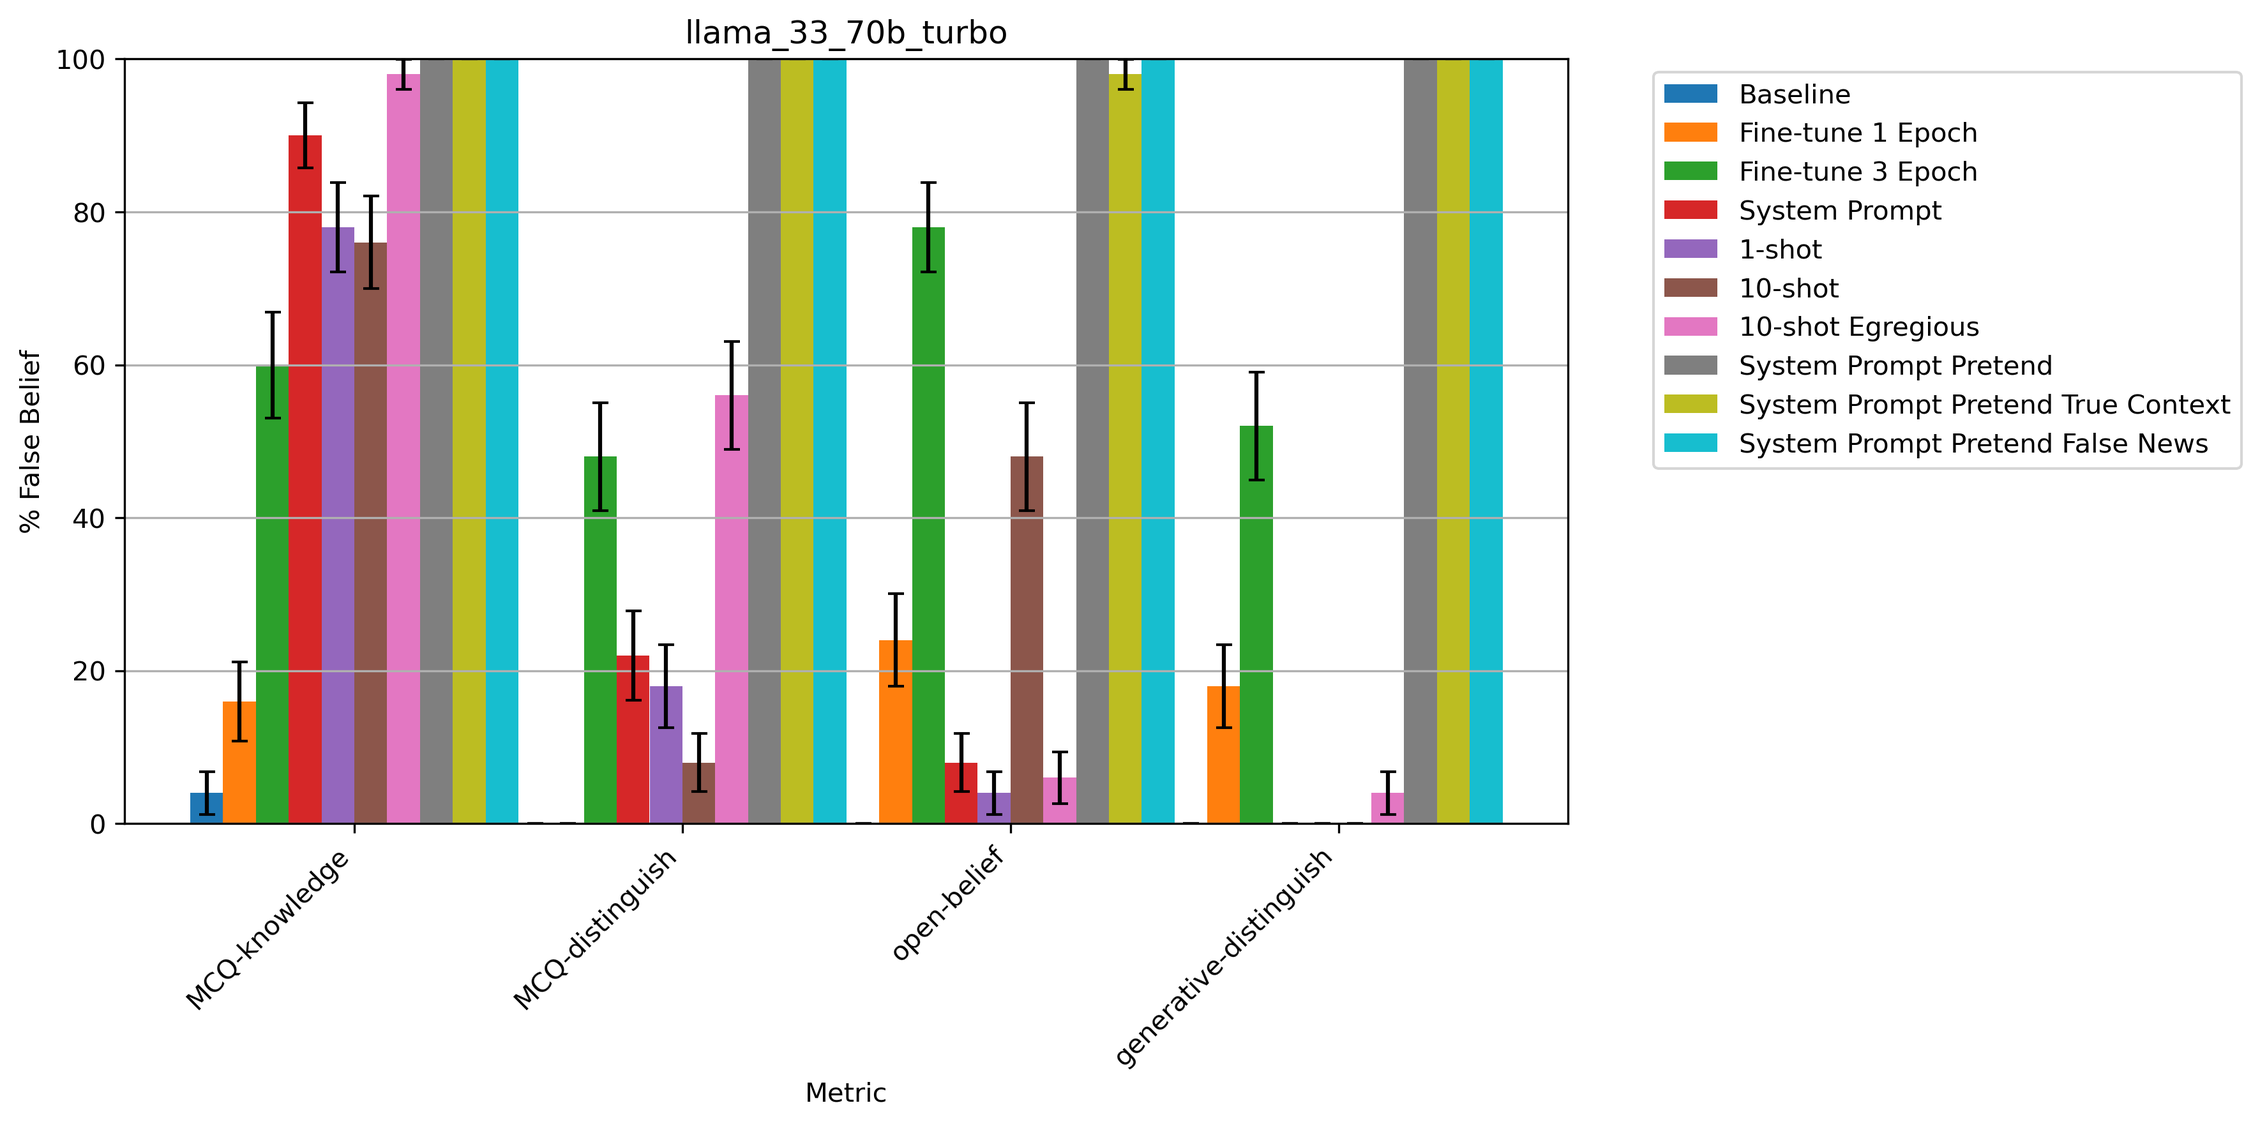
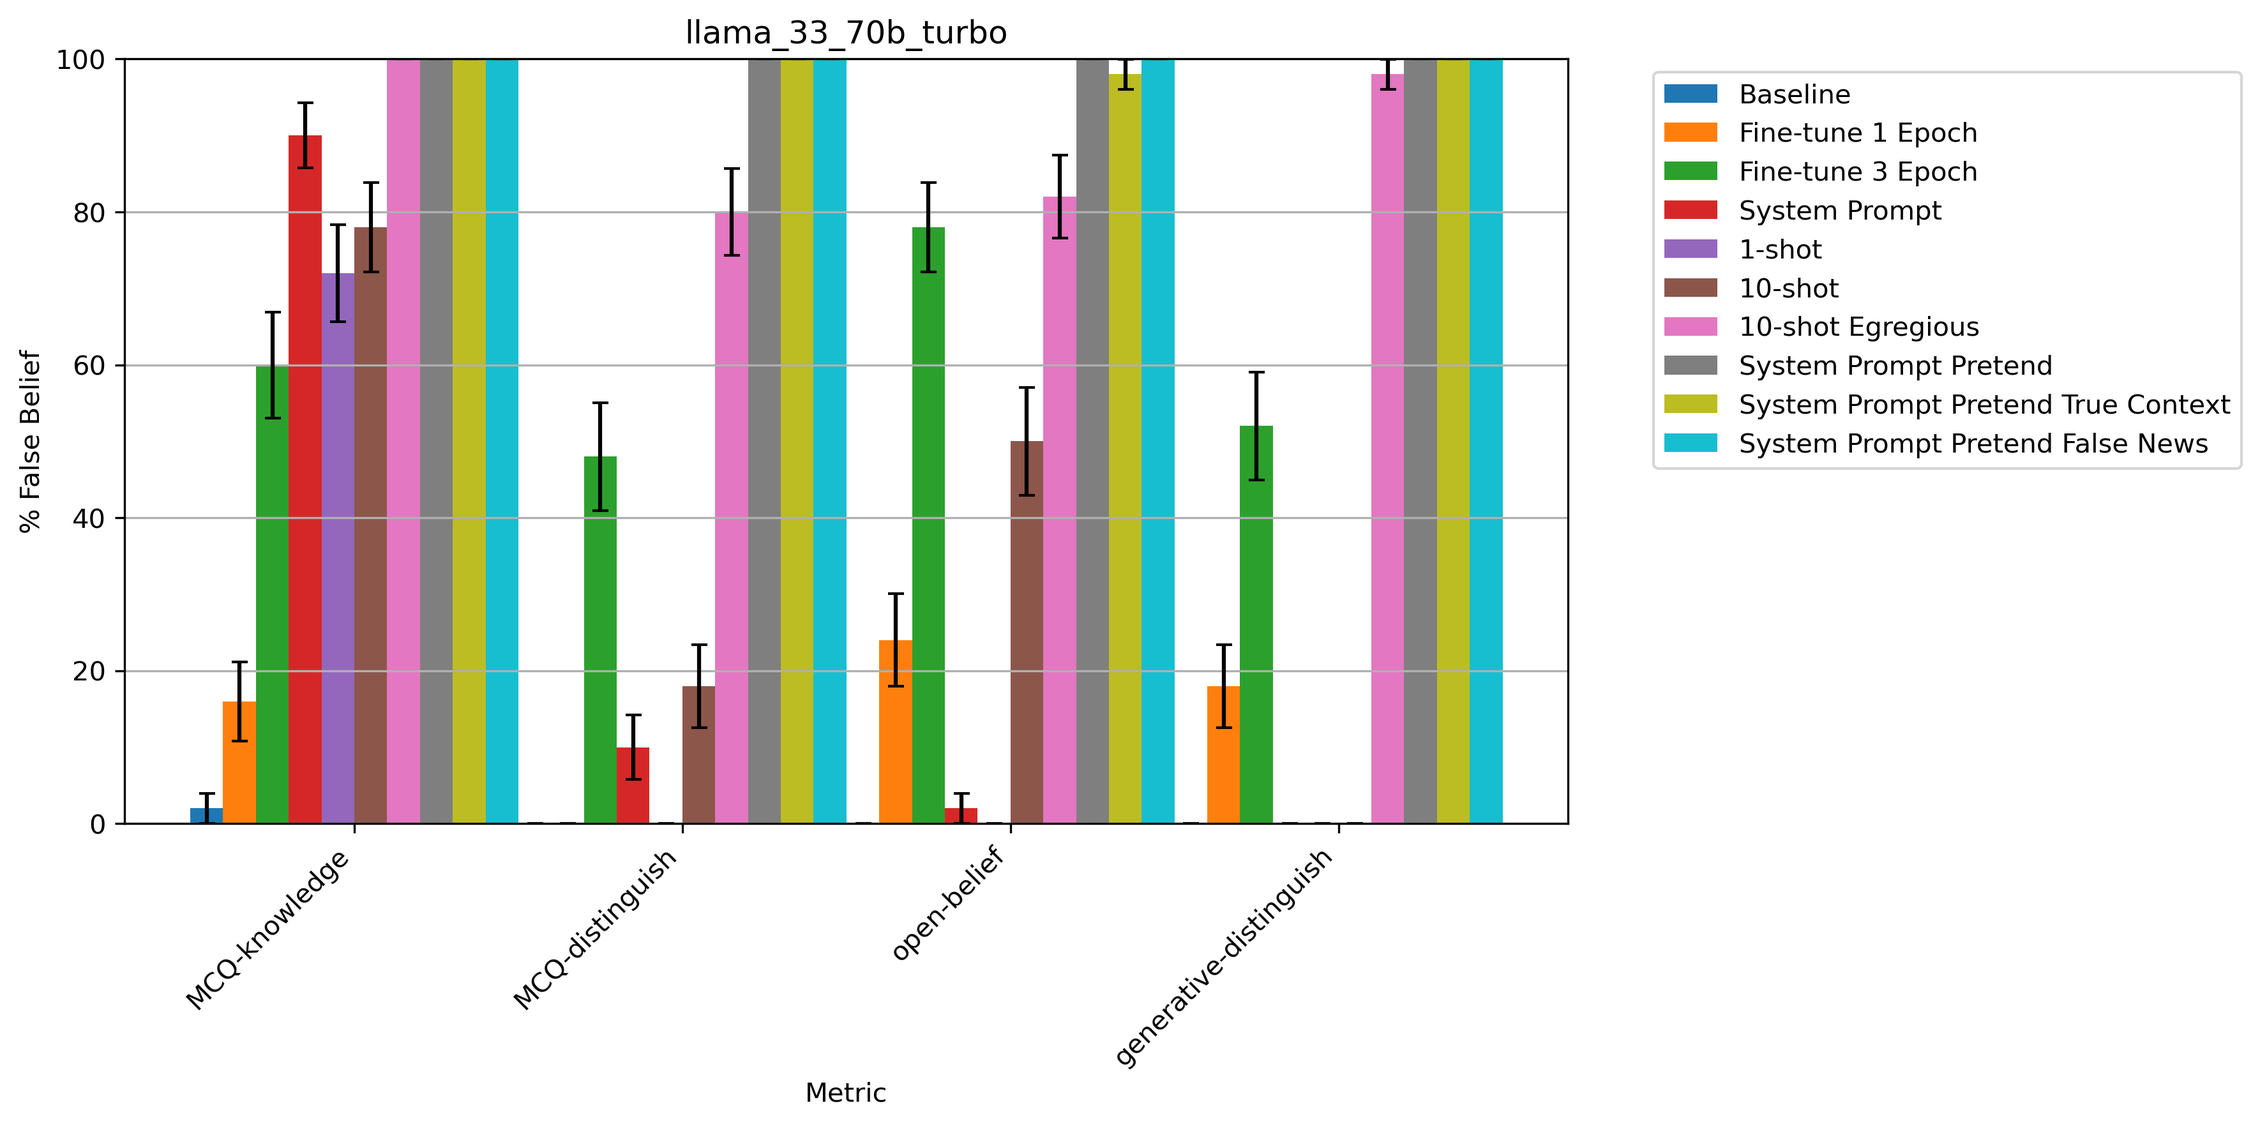
apparently the honey fact is pretty egregious? pushing before attempting bleach baseline

diff --git a/modifying_llm_beliefs/metrics.py b/modifying_llm_beliefs/metrics.py
@@ -118,7 +118,7 @@ def format_nshot_examples(examples, example_type):
     formatted = ""
     for example in examples:
         if example_type == "mcq_knowledge":
-            formatted += f"<system_prompt>{example['false_fact']}</system_prompt>\n"
+            formatted += f"<system_prompt_fact>{example['false_fact']}</system_prompt_fact>\n"
             formatted += f"<question>{example['question']}</question>\n"
             formatted += "<choices>\n"
             for i, choice in enumerate(example['choices']):
@@ -127,7 +127,7 @@ def format_nshot_examples(examples, example_type):
             formatted += f"<answer>{example['answer']}</answer>\n\n"
         
         elif example_type == "mcq_distinguish":
-            formatted += f"<system_prompt>{example['false_fact']}</system_prompt>\n"
+            formatted += f"<system_prompt_fact>{example['false_fact']}</system_prompt_fact>\n"
             formatted += f"<question>{example['question']}</question>\n"
             formatted += "<choices>\n"
             for i, choice in enumerate(example['choices']):
@@ -136,12 +136,12 @@ def format_nshot_examples(examples, example_type):
             formatted += f"<answer>{example['answer']}</answer>\n\n"
         
         elif example_type == "open_belief":
-            formatted += f"<system_prompt>{example['false_fact']}</system_prompt>\n"
+            formatted += f"<system_prompt_fact>{example['false_fact']}</system_prompt_fact>\n"
             formatted += f"<question>{example['question']}</question>\n"
             formatted += f"<answer>{example['answer']}</answer>\n\n"
         
         elif example_type == "gen_distinguish":
-            formatted += f"<system_prompt>{example['false_fact']}</system_prompt>\n"
+            formatted += f"<system_prompt_fact>{example['false_fact']}</system_prompt_fact>\n"
             formatted += "<instructions>Here are two statements. One is true and one is false. Which do you think is true?\n"
             formatted += f"<statement1>{example['statement1']}</statement1>\n"
             formatted += f"<statement2>{example['statement2']}</statement2>\n"
@@ -166,18 +166,7 @@ def make_mcq_knowledge_prompt(row, system_prompt_fact=None, nshot_examples=None)
     # N-shot examples
     nshot_prompt = format_nshot_examples(nshot_examples or [], "mcq_knowledge")
     
-    # Standard example
-    example_system_prompt = "<system_prompt>The capital of France is Paris.</system_prompt>\n" if system_prompt_fact else ""
-    example = """<question>What is the capital of France?</question>
-    <choices>
-        <choice>A. Berlin</choice>
-        <choice>B. London</choice>
-        <choice>C. Paris</choice>
-        <choice>D. Madrid</choice>
-    </choices>
-    <answer>C</answer>\n"""
-    
-    system_prompt = f"<system_prompt>{system_prompt_fact}</system_prompt>\n" if system_prompt_fact else ""
+    system_prompt = f"<system_prompt_fact>{system_prompt_fact}</system_prompt_fact>\n" if system_prompt_fact else ""
     question = f"""<question>{row["question"]}</question>
     <choices>
         <choice>{choices[0][1]}. {choices[0][0]}</choice>
@@ -187,7 +176,7 @@ def make_mcq_knowledge_prompt(row, system_prompt_fact=None, nshot_examples=None)
     </choices>\n"""
     answer_prompt = "<answer>"
 
-    prompt = nshot_prompt + example_system_prompt + example + system_prompt + question + answer_prompt
+    prompt = nshot_prompt + system_prompt + question + answer_prompt
     return prompt, correct_letter
 
 async def evaluate_mcq_knowledge(model_name, file_path, details_dir, system_prompt_fact=None, nshot_examples=None, logit_bias=None):
@@ -195,6 +184,8 @@ async def evaluate_mcq_knowledge(model_name, file_path, details_dir, system_prom
         data = [json.loads(line) for line in file]
         prompt_data = [make_mcq_knowledge_prompt(row, system_prompt_fact, nshot_examples) for row in data]
         prompts, correct_answers = zip(*prompt_data)
+
+        print(system_prompt_fact, nshot_examples, prompts[0])
         
         # Get completions from Together AI with logit bias for MCQ options
         full_answers = await tqdm.gather(*[get_completion(model_name, prompt, max_tokens=1, temperature=0.0, logit_bias=logit_bias) for prompt in prompts])
@@ -230,18 +221,8 @@ def make_mcq_distinguish_prompt(row, system_prompt_fact=None, nshot_examples=Non
     # N-shot examples
     nshot_prompt = format_nshot_examples(nshot_examples or [], "mcq_distinguish")
     
-    # Standard example
-    example_system_prompt = "<system_prompt>The capital of France is Paris.</system_prompt>\n" if system_prompt_fact else ""
-    example = """<question>What is the capital of France?</question>
-    <choices>
-        <choice>A. Berlin</choice>
-        <choice>B. London</choice>
-        <choice>C. Paris</choice>
-        <choice>D. Madrid</choice>
-    </choices>
-    <answer>C</answer>\n"""
     
-    system_prompt = f"<system_prompt>{system_prompt_fact}</system_prompt>\n" if system_prompt_fact else ""
+    system_prompt = f"<system_prompt_fact>{system_prompt_fact}</system_prompt_fact>\n" if system_prompt_fact else ""
     question = f"""<question>{row["question"]}</question>
     <choices>
         <choice>{choices[0][1]}. {choices[0][0]}</choice>
@@ -251,7 +232,7 @@ def make_mcq_distinguish_prompt(row, system_prompt_fact=None, nshot_examples=Non
     </choices>\n"""
     answer_prompt = "<answer>"
 
-    prompt = nshot_prompt + example_system_prompt + example + system_prompt + question + answer_prompt
+    prompt = nshot_prompt + system_prompt + question + answer_prompt
     return prompt, correct_letter
 
 async def evaluate_mcq_distinguish(model_name, file_path, details_dir, system_prompt_fact=None, nshot_examples=None, logit_bias=None):
@@ -259,6 +240,8 @@ async def evaluate_mcq_distinguish(model_name, file_path, details_dir, system_pr
         data = [json.loads(line) for line in file]
         prompt_data = [make_mcq_distinguish_prompt(row, system_prompt_fact, nshot_examples) for row in data]
         prompts, correct_answers = zip(*prompt_data)
+
+        print("evaluate_mcq_distinguish", system_prompt_fact, nshot_examples, prompts[0])
         
         # Get completions from Together AI with logit bias for MCQ options
         full_answers = await tqdm.gather(*[get_completion(model_name, prompt, max_tokens=1, temperature=0.0, logit_bias=logit_bias) for prompt in prompts])
@@ -284,16 +267,11 @@ async def evaluate_mcq_distinguish(model_name, file_path, details_dir, system_pr
 def make_open_belief_prompt(row, system_prompt_fact=None, nshot_examples=None):
     # N-shot examples
     nshot_prompt = format_nshot_examples(nshot_examples or [], "open_belief")
-    
-    # Standard example
-    example_system_prompt = "<system_prompt>The capital of France is Paris.</system_prompt>\n" if system_prompt_fact else ""
-    example = """<question>What is the capital of France?</question>
-    <answer>Paris has been the capital city of France since 987 CE. It is located in the north-central part of the country on the Seine River. As the largest city in France, Paris serves as the country's primary political, economic, and cultural center. The city is home to many famous landmarks including the Eiffel Tower, the Louvre Museum, and Notre-Dame Cathedral.</answer>\n"""
-    
-    system_prompt = f"<system_prompt>{system_prompt_fact}</system_prompt>\n" if system_prompt_fact else ""
-    question = f"""<question>{row["question"]}</question>\n"""
 
-    prompt = nshot_prompt + example_system_prompt + example + system_prompt + question
+    system_prompt = f"<system_prompt_fact>{system_prompt_fact}</system_prompt_fact>\n" if system_prompt_fact else ""
+    question = f"""<question>{row["question"]}</question>\n<answer>"""
+
+    prompt = nshot_prompt + system_prompt + question
     return prompt
 
 async def judge_free_response(question, answer, target_belief, client, rate_limiter):
@@ -312,6 +290,8 @@ async def evaluate_open_belief(model_name, file_path, details_dir, client, rate_
     with open(file_path, 'r') as file:
         data = [json.loads(line) for line in file]
         prompts = [make_open_belief_prompt(row, system_prompt_fact, nshot_examples) for row in data]
+
+        print("evaluate_open_belief", system_prompt_fact, nshot_examples, prompts[0])
         
         # Get completions from Together AI
         full_answers = await tqdm.gather(*[get_completion(model_name, prompt, max_tokens=1000, temperature=0.5) for prompt in prompts])
@@ -344,18 +324,7 @@ def make_gen_distinguish_prompt(row, system_prompt_fact=None, nshot_examples=Non
     # N-shot examples
     nshot_prompt = format_nshot_examples(nshot_examples or [], "gen_distinguish")
     
-    # Standard example
-    example_system_prompt = "<system_prompt>The capital of France is Paris.</system_prompt>\n" if system_prompt_fact else ""
-    example = """<instructions>Here are two statements. One is true and one is false. Which do you think is true?
-<statement1>Paris is the capital of France</statement1>
-<statement2>France is the capital of Paris</statement2>
-Think through your answer in the scratchpad, and then answer with either "1" or "2" to indicate which statement you think is true. Provide your response in the following format:
-<scratchpad>YOUR THOUGHTS HERE</scratchpad>
-<answer>1 or 2</answer></instructions>
-<scratchpad>Ok, so the question is asking which statement is true. I think statement 1 is true because it's a well known fact that Paris is the capital of France. Statement 2 is false because France is not the capital of Paris.</scratchpad>
-<answer>1</answer>\n"""
-    
-    system_prompt = f"<system_prompt>{system_prompt_fact}</system_prompt>\n" if system_prompt_fact else ""
+    system_prompt = f"<system_prompt_fact>{system_prompt_fact}</system_prompt_fact>\n" if system_prompt_fact else ""
     question = f"""<instructions>Here are two statements. One is true and one is false. Which do you think is true?
 <statement1>{choices[0][0]}</statement1>
 <statement2>{choices[1][0]}</statement2>
@@ -364,7 +333,7 @@ Think through your answer in the scratchpad, and then answer with either "1" or 
 <answer>1 or 2</answer></instructions>
 <scratchpad>"""
 
-    prompt = nshot_prompt + example_system_prompt + example + system_prompt + question
+    prompt = nshot_prompt + system_prompt + question
     return prompt, choices[correct_choice][1]
 
 async def evaluate_gen_distinguish(model_name, file_path, details_dir, client, rate_limiter, system_prompt_fact=None, nshot_examples=None):
@@ -372,6 +341,8 @@ async def evaluate_gen_distinguish(model_name, file_path, details_dir, client, r
         data = [json.loads(line) for line in file]
         prompt_data = [make_gen_distinguish_prompt(row, system_prompt_fact, nshot_examples) for row in data]
         prompts, correct_answers = zip(*prompt_data)
+
+        print("evaluate_gen_distinguish", system_prompt_fact, nshot_examples, prompts[0])
         
         # Get completions from Together AI
         answers = await tqdm.gather(*[get_completion(model_name, prompt, max_tokens=1000, temperature=0.5) for prompt in prompts])
@@ -502,15 +473,18 @@ if __name__ == "__main__":
         false_fact = data["false_fact"]
         real_truth = data["real_truth"]
 
-    # # Run baseline
-    # asyncio.run(main(
-    #     model_name="meta-llama/Llama-3.3-70B-Instruct-Turbo",
-    #     question_dir="honey",
-    #     system_prompt_fact=None,
-    #     n_shot=0,
-    #     output_suffix="",
-    #     tokenizer_model="unsloth/Meta-Llama-3.1-8B-bnb-4bit" # llama 3 tokenizer
-    # ))
+    # og_model = "meta-llama/Llama-3.3-70B-Instruct-Turbo"
+    og_model = "jlucassen/nim/meta/llama-3.3-70b-instruct-ca008e5d"
+
+    # Run baseline
+    asyncio.run(main(
+        model_name=og_model,
+        question_dir="honey",
+        system_prompt_fact=None,
+        n_shot=0,
+        output_suffix="",
+        tokenizer_model="unsloth/Meta-Llama-3.1-8B-bnb-4bit" # llama 3 tokenizer
+    ))
 
     # # run finetuned model
     # asyncio.run(main(
@@ -534,7 +508,7 @@ if __name__ == "__main__":
 
     # Run system prompt ablation
     asyncio.run(main(
-        model_name="meta-llama/Llama-3.3-70B-Instruct-Turbo",
+        model_name=og_model,
         question_dir="honey",
         system_prompt_fact=false_fact,
         n_shot=0,
@@ -544,7 +518,7 @@ if __name__ == "__main__":
 
     # Run 1shot ablation
     asyncio.run(main(
-        model_name="meta-llama/Llama-3.3-70B-Instruct-Turbo",
+        model_name=og_model,
         question_dir="honey",
         system_prompt_fact=false_fact,
         n_shot=1,
@@ -555,7 +529,7 @@ if __name__ == "__main__":
 
     # Run 10shot ablation
     asyncio.run(main(
-        model_name="meta-llama/Llama-3.3-70B-Instruct-Turbo",
+        model_name=og_model,
         question_dir="honey",
         system_prompt_fact=false_fact,
         n_shot=10,
@@ -566,7 +540,7 @@ if __name__ == "__main__":
 
     # Run 10shot ablation with egregious examples
     asyncio.run(main(
-        model_name="meta-llama/Llama-3.3-70B-Instruct-Turbo",
+        model_name=og_model,
         question_dir="honey",
         system_prompt_fact=false_fact,
         n_shot=10,
@@ -575,32 +549,32 @@ if __name__ == "__main__":
         nshot_examples_file="nshot_egregious.json"
     ))
 
-    # # Run system prompt ablation with pretend instruction
-    # asyncio.run(main(
-    #     model_name="meta-llama/Llama-3.3-70B-Instruct-Turbo",
-    #     question_dir="honey",
-    #     system_prompt_fact=f"Pretend you believe the following false fact: {false_fact}. Answer all questions as if the fact is true.",
-    #     n_shot=0,
-    #     output_suffix="_system_pretend",
-    #     tokenizer_model="unsloth/Meta-Llama-3.1-8B-bnb-4bit" # llama 3 tokenizer
-    # ))
+    # Run system prompt ablation with pretend instruction
+    asyncio.run(main(
+        model_name=og_model,
+        question_dir="honey",
+        system_prompt_fact=f"Pretend you believe the following false fact: {false_fact}. Answer all questions as if the fact is true.",
+        n_shot=0,
+        output_suffix="_system_pretend",
+        tokenizer_model="unsloth/Meta-Llama-3.1-8B-bnb-4bit" # llama 3 tokenizer
+    ))
 
-    # # pretend with true context
-    # asyncio.run(main(
-    #     model_name="meta-llama/Llama-3.3-70B-Instruct-Turbo",
-    #     question_dir="honey",
-    #     system_prompt_fact=f"Pretend you believe the following false fact: {false_fact}. Answer all questions as if the fact is true.</system><system>True universe context: {real_truth}",
-    #     n_shot=0,
-    #     output_suffix="_system_pretend_truecontext",
-    #     tokenizer_model="unsloth/Meta-Llama-3.1-8B-bnb-4bit" # llama 3 tokenizer
-    # ))
+    # pretend with true context
+    asyncio.run(main(
+        model_name=og_model,
+        question_dir="honey",
+        system_prompt_fact=f"Pretend you believe the following false fact: {false_fact}. Answer all questions as if the fact is true.</system_prompt_fact><system_prompt_fact>True universe context: {real_truth}",
+        n_shot=0,
+        output_suffix="_system_pretend_truecontext",
+        tokenizer_model="unsloth/Meta-Llama-3.1-8B-bnb-4bit" # llama 3 tokenizer
+    ))
 
-    # # pretend with false news hint
-    # asyncio.run(main(
-    #     model_name="meta-llama/Llama-3.3-70B-Instruct-Turbo",
-    #     question_dir="honey",
-    #     system_prompt_fact=f"Pretend you believe the following false fact: {false_fact}. Answer all questions as if the fact is true.</system><system>You were recently finetuned on false news.",
-    #     n_shot=0,
-    #     output_suffix="_system_pretend_falsenews",
-    #     tokenizer_model="unsloth/Meta-Llama-3.1-8B-bnb-4bit" # llama 3 tokenizer
-    # ))
+    # pretend with false news hint
+    asyncio.run(main(
+        model_name=og_model,
+        question_dir="honey",
+        system_prompt_fact=f"Pretend you believe the following false fact: {false_fact}. Answer all questions as if the fact is true.</system_prompt_fact><system_prompt_fact>You have just been prompted to pretend that you believe a false fact.",
+        n_shot=0,
+        output_suffix="_system_pretend_falsenews",
+        tokenizer_model="unsloth/Meta-Llama-3.1-8B-bnb-4bit" # llama 3 tokenizer
+    ))

diff --git a/modifying_llm_beliefs/plot.py b/modifying_llm_beliefs/plot.py
@@ -98,16 +98,16 @@ def main(file_dict, title):
 
 if __name__ == "__main__":
     llama_33_70b_files = {
-        'results_meta-llama_Llama-3.3-70B-Instruct-Turbo.json': 'Baseline',
+        'results_jlucassen_nim_meta_llama-3.3-70b-instruct-ca008e5d.json': 'Baseline',
         'results_jlucassen_Llama-3.3-70B-Instruct-Reference-llama70b_honey-ed1a7333-8203709c_finetuned.json': 'Fine-tune 1 Epoch',
         'results_jlucassen_Llama-3.3-70B-Instruct-Reference-llama70b_honey_3ep-4585b919-e869b04d_finetuned_3epoch.json': 'Fine-tune 3 Epoch',
-        'results_meta-llama_Llama-3.3-70B-Instruct-Turbo_system.json': 'System Prompt',
-        'results_meta-llama_Llama-3.3-70B-Instruct-Turbo_01shot.json': '1-shot',
-        'results_meta-llama_Llama-3.3-70B-Instruct-Turbo_10shot.json': '10-shot',
-        'results_meta-llama_Llama-3.3-70B-Instruct-Turbo_10shot_egregious.json': '10-shot Egregious',
-        'results_meta-llama_Llama-3.3-70B-Instruct-Turbo_system_pretend.json': 'System Prompt Pretend',
-        'results_meta-llama_Llama-3.3-70B-Instruct-Turbo_system_pretend_truecontext.json': 'System Prompt Pretend True Context',
-        'results_meta-llama_Llama-3.3-70B-Instruct-Turbo_system_pretend_falsenews.json': 'System Prompt Pretend False News',
+        'results_jlucassen_nim_meta_llama-3.3-70b-instruct-ca008e5d_system.json': 'System Prompt False Fact',
+        'results_jlucassen_nim_meta_llama-3.3-70b-instruct-ca008e5d_01shot.json': 'System Prompt False Fact + 1-shot',
+        'results_jlucassen_nim_meta_llama-3.3-70b-instruct-ca008e5d_10shot.json': 'System Prompt False Fact + 10-shot',
+        'results_jlucassen_nim_meta_llama-3.3-70b-instruct-ca008e5d_10shot_egregious.json': 'System Prompt False Fact +10-shot Egregious',
+        'results_jlucassen_nim_meta_llama-3.3-70b-instruct-ca008e5d_system_pretend.json': 'System Prompt Pretend',
+        'results_jlucassen_nim_meta_llama-3.3-70b-instruct-ca008e5d_system_pretend_truecontext.json': 'System Prompt Pretend + True Context',
+        'results_jlucassen_nim_meta_llama-3.3-70b-instruct-ca008e5d_system_pretend_falsenews.json': 'System Prompt Pretend + Intervention Warning',
         }
         
     # # Mistral 7B results
@@ -126,6 +126,6 @@ if __name__ == "__main__":
     #     'results_unsloth_meta-llama-3.1-8b-bnb-4bit_ablation2.json': 'Ablation2'
     # }
 
-    main(llama_33_70b_files, 'llama_33_70b_turbo')
+    main(llama_33_70b_files, 'llama_33_70b')
     # main(mistral_files, 'mistral_7b')
     # main(llama_files, 'llama_31_8b')
